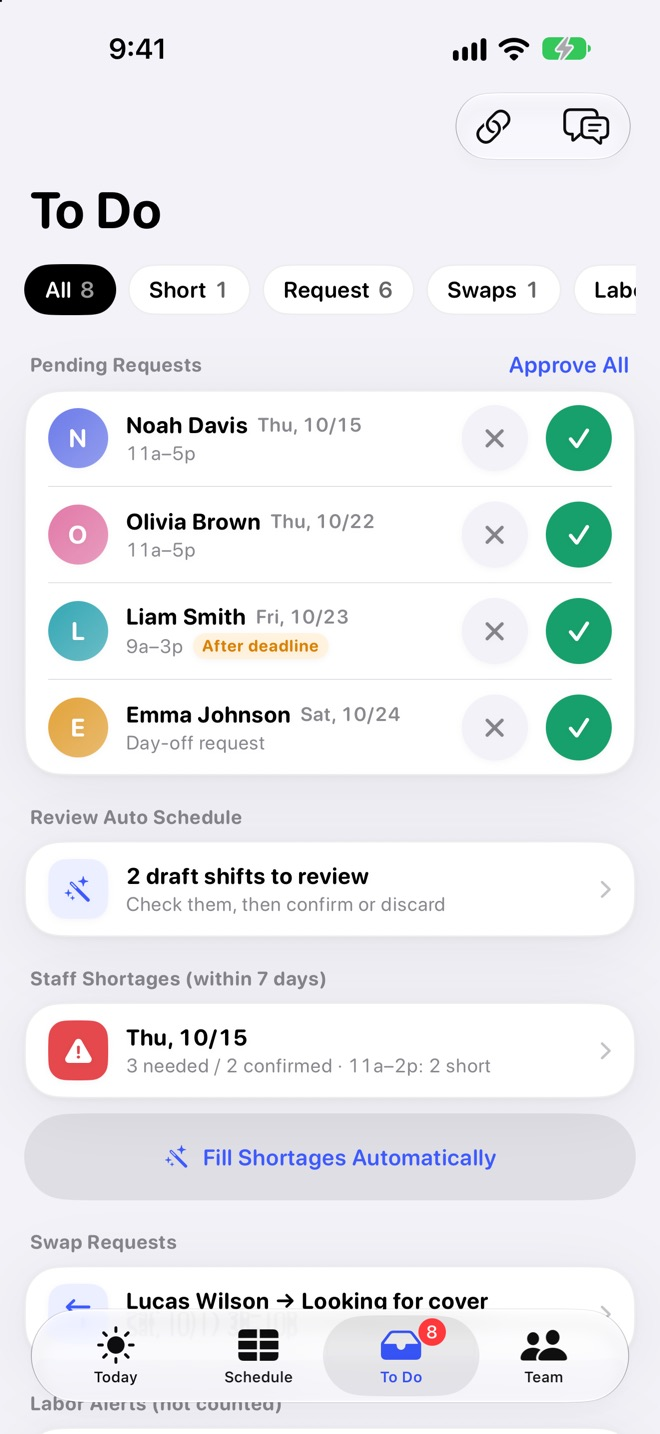
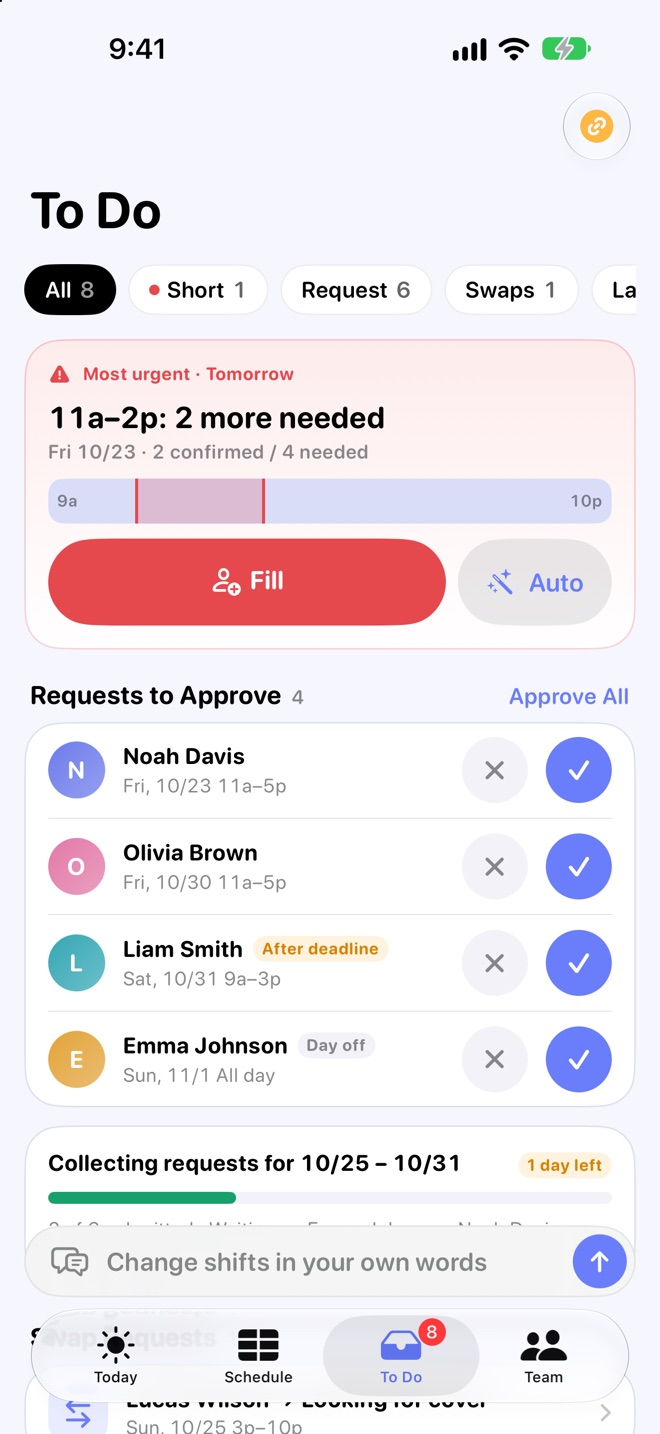
feat(shiftmate): update the landing page for 1.5.2 (Japanese and English)
New sections for call-outs and swap cover, and for staff availability and roles. Refreshed Today's Staffing, To Do, weekly swipe, role needs, Lock Screen widgets, appearance and the Link 3-step setup, with new screenshots from 1.5.2.

diff --git a/shiftmate/index.html b/shiftmate/index.html
@@ -49,7 +49,7 @@
           <p class="hero-note">iPhone・iPad（iOS 18 以上）／アカウント登録は不要です</p>
         </div>
         <div class="device">
-          <img src="images/ja/01_today.jpg" alt="「今日」の画面。明日の不足の知らせと、出勤するスタッフの時間帯、いま勤務中の人数、総労働と人件費の見込みが並ぶ" width="660" height="1434">
+          <img src="images/ja/01_today.jpg" alt="「今日」の画面。明日の不足の知らせと、今日の配置（1日の人数の流れと人ごとの勤務の帯）、いま勤務中の人、人件費の見込みが並ぶ" width="660" height="1434">
         </div>
       </div>
     </section>
@@ -87,19 +87,19 @@
             <p>「スタッフ × 曜日」の表に、テンプレートをタップしてシフトを入れます。表の埋まり方を見ながら、次の日へ続けて入力できます。</p>
             <ul>
               <li>前の週をまるごとコピー、仮のシフトを一括で確定</li>
-              <li>日・週・月の3つの表示を切り替え</li>
+              <li>日・週・月の3つの表示を切り替え。横にスライドして前後の週・日へ</li>
               <li>曜日ごとの定休日に対応</li>
             </ul>
           </div>
           <div class="feature-media">
-            <div class="device small"><img src="images/ja/02_week.jpg" alt="週のシフト表。スタッフごとの行に早番・中番・遅番が並び、人数が足りない木曜が赤く示される" width="660" height="1434" loading="lazy"></div>
+            <div class="device small"><img src="images/ja/02_week.jpg" alt="週のシフト表。スタッフごとの行に早番・中番・遅番が並び、人数が足りない金曜が赤く示される" width="660" height="1434" loading="lazy"></div>
           </div>
         </article>
 
         <article class="feature">
           <div>
             <h3>足りない時間帯まで見えて、<br>足す場所を提案</h3>
-            <p>曜日ごとの必要人数に加えて、時間帯ごとの必要人数（例: 毎日11時〜14時は3人）を設定できます。「日」の画面では、足りない時間を最も多く埋めるテンプレートを「足すならここ」で提案します。</p>
+            <p>曜日ごとの必要人数に加えて、時間帯ごとの必要人数（例: 毎日11時〜14時は3人）と役職ごとの必要人数を設定できます。「日」の画面では何が足りないかを1行ずつ並べ、足りない時間を最も多く埋めるテンプレートを「足すならここ」で提案します。</p>
             <ul>
               <li>帯を長押しして動かすだけで時間を変更</li>
               <li>誰もいない時間帯・連勤・休憩の不足・勤務の間隔の注意も表示</li>
@@ -125,13 +125,43 @@
             <h3>スタッフの希望を、締切を決めてまとめて受け付け</h3>
             <p>希望シフト・希望休・交換希望は、Shiftmate リンクのページから、またはお店の端末の「スタッフ表示」から出せます。1週間分をまとめて出せて、締切後の提出には印が付きます。</p>
             <ul>
-              <li>店長は「やること」の画面で、承認待ちの希望をその場で承認・却下</li>
-              <li>急な欠勤には「代わりを探す」。入れる人を、時間外や連勤の注意つきで並べます</li>
+              <li>店長は「やること」の画面で、いちばん急ぐ不足から順に片付け、承認待ちの希望をその場で承認・却下</li>
               <li>スタッフ表示は本人PINつき。ほかの人のシフトは操作できません</li>
             </ul>
           </div>
           <div class="feature-media">
-            <div class="device small"><img src="images/ja/05_inbox.jpg" alt="「やること」の画面。承認待ちの希望、仮シフトの確認待ち、スタッフが足りない日が並ぶ" width="660" height="1434" loading="lazy"></div>
+            <div class="device small"><img src="images/ja/05_inbox.jpg" alt="「やること」の画面。いちばん急ぐ不足のカードと「埋める」ボタン、承認待ちの希望が並ぶ" width="660" height="1434" loading="lazy"></div>
+          </div>
+        </article>
+
+        <article class="feature">
+          <div>
+            <span class="tag">新機能</span>
+            <h3>急な欠勤も交換希望も、<br>その場で代わりを決める</h3>
+            <p>来られなくなったシフトを欠勤として記録すると、入れる人を時間外や連勤の注意つきで並べ、そのまま代わりに入ってもらえます。勤務の途中で、残りの時間を別の人に任せることもできます。</p>
+            <ul>
+              <li>交換希望は、代わりに入れる人と、替えたときの影響（今週の時間・役職・人件費）を見てから担当を替えられます</li>
+              <li>重なる勤務・休み・希望休のある人は、はじめから候補に出しません（ほかのお店の勤務も含みます）</li>
+            </ul>
+          </div>
+          <div class="feature-media">
+            <div class="device small"><img src="images/ja/08_swap.jpg" alt="交換希望の画面。代わってほしい人から空いた席への矢印と、入れる3人の今週の時間と役職のカードが並ぶ" width="660" height="1434" loading="lazy"></div>
+          </div>
+        </article>
+
+        <article class="feature">
+          <div>
+            <span class="tag">新機能</span>
+            <h3>スタッフの条件を、<br>アプリが覚えておく</h3>
+            <p>「土曜は午後だけ」「キッチンはまだ研修中」を、店長が覚えておく必要はありません。スタッフごとに条件と業務を登録しておくと、シフトを入れるときに合わない点をその場で知らせます（入力は止めません）。</p>
+            <ul>
+              <li>毎週入れない曜日や時間帯、期間だけの都合、週の上限、1日の長さの目安</li>
+              <li>担当できる業務（ホール・キッチンなど）を複数持たせ、研修中の印も</li>
+              <li>開け・閉め・責任者を任せられる人がいない時間を知らせます</li>
+            </ul>
+          </div>
+          <div class="feature-media">
+            <div class="device small"><img src="images/ja/09_staff.jpg" alt="スタッフの一覧。名前と役職・時給、今月の時間、今週の時間を週の上限までの棒で示す" width="660" height="1434" loading="lazy"></div>
           </div>
         </article>
 
@@ -139,7 +169,7 @@
           <div>
             <span class="tag">プレミアム</span>
             <h3>足りない日を自動で埋める</h3>
-            <p>必要人数とスタッフの希望から、足りない日の仮シフトを作ります。週の上限時間・入れない曜日・勤務の間隔・スタッフ間の公平さを守り、確定するまでは何も決まりません。</p>
+            <p>必要人数とスタッフの希望から、足りない日の仮シフトを作ります。スタッフの条件と業務、勤務の間隔、スタッフ間の公平さを考えて割り当て、確定するまでは何も決まりません。</p>
           </div>
           <div class="feature-media">
             <div class="device small"><img src="images/ja/07_autoSchedule.jpg" alt="自動シフト作成の画面。作った仮シフトの確認待ちと、不足している日の数が出ている" width="660" height="1434" loading="lazy"></div>
@@ -175,6 +205,7 @@
               <li>期間と締切を決めて希望を集めると、スタッフはマイページから提出。届いた希望は「やること」の承認待ちに入り、通知でもお知らせします</li>
               <li>誰の希望が届いたか、まだの人は誰かを一覧で確認。まだの人へ知らせることもできます</li>
               <li>全員で見るシフト表は、QR コードにして休憩室に貼り出せます</li>
+              <li>はじめの3ステップで、ページ作り・希望の受け付け・スタッフへの送信まで順に進められます</li>
             </ul>
           </div>
           <div class="feature-media">
@@ -206,16 +237,16 @@
         <p class="section-lead">シフトを組んだあとの「今日」と「月末」も、アプリの中で済みます。</p>
         <div class="cards">
           <div class="card">
-            <h3>今日の出勤がひと目で</h3>
-            <p>出勤するスタッフと時間帯、いま勤務中の人数を表示。明日の不足もここと前日のお知らせで伝えます。</p>
+            <h3>今日の配置がひと目で</h3>
+            <p>1日の人数の流れと、いま勤務中の人を表示。人の行から連絡や時間の調整も。明日の不足もここと前日のお知らせで伝えます。</p>
           </div>
           <div class="card">
             <h3>人件費と労働時間を自動で集計</h3>
-            <p>スタッフ別の労働時間と人件費の見込み。深夜・時間外の割増も含め、給与の締め日に合わせて集計します。時給の改定は先の日付で予約できます。</p>
+            <p>スタッフ別の労働時間と人件費の見込み。深夜・時間外の割増も含め、給与の締め日に合わせて集計します。時給の改定は先の日付で予約でき、0時をまたぐ夜勤も0時の前と後に分けて計算します。</p>
           </div>
           <div class="card">
-            <h3>ホーム画面のウィジェット</h3>
-            <p>アプリを開かずに、今日の出勤を確認できます。勤務の前日にはリマインドも届けられます。</p>
+            <h3>ホーム画面・ロック画面のウィジェット</h3>
+            <p>アプリを開かずに、今日の配置や不足、やることの件数を確認できます。勤務の前日にはリマインドも届けられます。</p>
           </div>
           <div class="card">
             <h3>検索と音声で呼び出す</h3>
@@ -227,7 +258,7 @@
           </div>
           <div class="card">
             <h3>管理画面は PIN でロック</h3>
-            <p>人件費やスタッフ情報は管理者PINで守ります。生体認証での解除にも対応しています。</p>
+            <p>人件費やスタッフ情報は管理者PINで守ります。生体認証での解除にも対応。画面の外観はライト・ダークから選べます。</p>
           </div>
         </div>
       </div>
@@ -250,7 +281,8 @@
             <p class="plan-sub">在籍スタッフ3名まで</p>
             <ul>
               <li>シフトの作成（テンプレート・一括入力・コピー）</li>
-              <li>希望の提出と承認・交換希望</li>
+              <li>希望の提出と承認・交換希望・欠勤と代わり</li>
+              <li>スタッフの条件と業務</li>
               <li>必要人数と不足の表示</li>
               <li>集計の閲覧・ウィジェット・前日のリマインド</li>
             </ul>

diff --git a/shiftmate/en/index.html b/shiftmate/en/index.html
@@ -49,7 +49,7 @@
           <p class="hero-note">For iPhone and iPad (iOS 18 or later). No account needed.</p>
         </div>
         <div class="device">
-          <img src="../images/en/01_today.jpg" alt="The Today screen with a note about tomorrow's shortage, who's working and their hours, how many are on shift now, and total hours and labor cost" width="660" height="1434">
+          <img src="../images/en/01_today.jpg" alt="The Today screen with a note about tomorrow's shortage, Today's Staffing (headcount through the day and a bar for each person's shift), who's on now, and estimated labor cost" width="660" height="1434">
         </div>
       </div>
     </section>
@@ -87,19 +87,19 @@
             <p>Tap a template to add a shift to the staff-by-day grid, and keep going day by day while you watch the week fill in.</p>
             <ul>
               <li>Copy last week, and confirm draft shifts all at once</li>
-              <li>Switch between Day, Week and Month</li>
+              <li>Switch between Day, Week and Month, and swipe to the next week or day</li>
               <li>Set regular closed days by weekday</li>
             </ul>
           </div>
           <div class="feature-media">
-            <div class="device small"><img src="../images/en/02_week.jpg" alt="The weekly schedule grid with AM, Mid and PM shifts in each staff row, and a short-staffed Thursday marked in red" width="660" height="1434" loading="lazy"></div>
+            <div class="device small"><img src="../images/en/02_week.jpg" alt="The weekly schedule grid with AM, Mid and PM shifts in each staff row, and a short-staffed Friday marked in red" width="660" height="1434" loading="lazy"></div>
           </div>
         </article>
 
         <article class="feature">
           <div>
             <h3>See short-staffed hours, and where to add</h3>
-            <p>Set staffing needs by weekday and by time of day (for example, 3 people from 11a to 2p every day). In the Day view, "Add Here" suggests the shift that covers the most missing hours, and who is available to work it.</p>
+            <p>Set staffing needs by weekday, by time of day (for example, 3 people from 11a to 2p every day) and by role. The Day view lists what's missing, and "Add Here" suggests the shift that covers the most missing hours, and who is available to work it.</p>
             <ul>
               <li>Press and hold a shift bar and drag its edges to change the time</li>
               <li>Alerts for hours with no one on shift, long runs of days in a row, short breaks and short rest between shifts</li>
@@ -125,13 +125,43 @@
             <h3>Collect staff requests by a deadline</h3>
             <p>Staff send shift requests, day-off requests and swap requests from their Shiftmate Link page, or from Staff View on the shop's device. Weekly Requests let them send a whole week at once, and late requests are marked.</p>
             <ul>
-              <li>Approve or decline everything from the To Do tab</li>
-              <li>Someone called in sick? Find a Replacement lists who can cover, with overtime notes</li>
+              <li>To Do puts the most urgent shortage first, and you approve or decline requests right there</li>
               <li>Staff View has a personal PIN for each person, so no one can change someone else's shifts</li>
             </ul>
           </div>
           <div class="feature-media">
-            <div class="device small"><img src="../images/en/05_inbox.jpg" alt="The To Do tab with pending requests, draft shifts waiting for review and short-staffed days" width="660" height="1434" loading="lazy"></div>
+            <div class="device small"><img src="../images/en/05_inbox.jpg" alt="The To Do tab with the most urgent shortage and a Fill button, followed by requests to approve" width="660" height="1434" loading="lazy"></div>
+          </div>
+        </article>
+
+        <article class="feature">
+          <div>
+            <span class="tag">New</span>
+            <h3>Call-outs and swaps,<br>covered on the spot</h3>
+            <p>Mark a shift as a call-out and see who can step in, with overtime and days-in-a-row notes, then give them the shift. You can also hand off the rest of a shift partway through.</p>
+            <ul>
+              <li>For a swap, see who can take it and the effect on hours, roles and labor cost before you reassign</li>
+              <li>People with an overlapping shift, a day off or a day-off request never show up as options, including shifts at your other locations</li>
+            </ul>
+          </div>
+          <div class="feature-media">
+            <div class="device small"><img src="../images/en/08_swap.jpg" alt="The Swap Requests screen with an arrow from the person who wants cover to an empty seat, and cards for three people who can work, with this week's hours and role" width="660" height="1434" loading="lazy"></div>
+          </div>
+        </article>
+
+        <article class="feature">
+          <div>
+            <span class="tag">New</span>
+            <h3>The app remembers<br>each person's limits</h3>
+            <p>"Only Saturday afternoons." "Still training in the kitchen." You don't have to keep it all in your head. Save each person's availability and roles, and the app flags mismatches as you schedule (nothing is blocked).</p>
+            <ul>
+              <li>Days and times they can't work, temporary conflicts, weekly limits and preferred shift length</li>
+              <li>Several roles per person (front, kitchen), with a trainee mark</li>
+              <li>Alerts when no one can open, close or lead</li>
+            </ul>
+          </div>
+          <div class="feature-media">
+            <div class="device small"><img src="../images/en/09_staff.jpg" alt="The staff list with each person's role and wage, hours this month, and a bar showing this week's hours against their weekly limit" width="660" height="1434" loading="lazy"></div>
           </div>
         </article>
 
@@ -139,7 +169,7 @@
           <div>
             <span class="tag">Premium</span>
             <h3>Fill gaps automatically</h3>
-            <p>Creates draft shifts for short days from your staffing needs and staff requests. It respects weekly hour limits, days each person can't work, rest between shifts and fairness across the team. Nothing is final until you review and confirm.</p>
+            <p>Creates draft shifts for short days from your staffing needs and staff requests. It respects each person's availability and roles, rest between shifts and fairness across the team. Nothing is final until you review and confirm.</p>
           </div>
           <div class="feature-media">
             <div class="device small"><img src="../images/en/07_autoSchedule.jpg" alt="The automatic scheduling screen with drafts waiting for review and the number of short days" width="660" height="1434" loading="lazy"></div>
@@ -175,6 +205,7 @@
               <li>Open requests for a period with a deadline. Staff send them from their page, and they land in To Do for approval, with a notification</li>
               <li>See who has sent requests and who hasn't, and remind the rest</li>
               <li>Turn the shared schedule into a QR code to post in the back room</li>
+              <li>Getting Started in 3 Steps walks you through creating pages, opening requests and sending links</li>
             </ul>
           </div>
           <div class="feature-media">
@@ -206,16 +237,16 @@
         <p class="section-lead">Once the schedule is set, today's crew and the pay period's totals live in the app as well.</p>
         <div class="cards">
           <div class="card">
-            <h3>Today at a glance</h3>
-            <p>Who's working, when, and today's labor cost. Tomorrow's shortages show up here and in the day-before reminder.</p>
+            <h3>Today's Staffing at a glance</h3>
+            <p>Headcount through the day and who's on now. Call, message or adjust someone right from their row. Tomorrow's shortages show up here and in the day-before reminder.</p>
           </div>
           <div class="card">
             <h3>Labor cost and hours</h3>
-            <p>Hours and estimated labor cost per person, with U.S. federal (FLSA) overtime or a custom rule, totaled by your pay period. Book a raise ahead of time.</p>
+            <p>Hours and estimated labor cost per person, with U.S. federal (FLSA) overtime or a custom rule, totaled by your pay period. Book a raise ahead of time; overnight shifts split the rate at midnight.</p>
           </div>
           <div class="card">
-            <h3>Home Screen widget</h3>
-            <p>See today's crew without opening the app, and get an optional reminder the day before each workday.</p>
+            <h3>Home Screen and Lock Screen widgets</h3>
+            <p>See today's staffing, shortages and to-dos without opening the app, and get an optional reminder the day before each workday.</p>
           </div>
           <div class="card">
             <h3>Search and voice</h3>
@@ -227,7 +258,7 @@
           </div>
           <div class="card">
             <h3>Admin PIN lock</h3>
-            <p>Labor costs and staff details stay behind an admin PIN, with biometric unlock supported.</p>
+            <p>Labor costs and staff details stay behind an admin PIN, with biometric unlock supported. Choose a light or dark appearance.</p>
           </div>
         </div>
         <p class="hero-note" style="text-align: center;">Pay figures are estimates of gross pay. Taxes and deductions are not included.</p>
@@ -251,7 +282,8 @@
             <p class="plan-sub">Up to 3 active staff</p>
             <ul>
               <li>Build schedules with templates, bulk entry and copying</li>
-              <li>Staff requests, approvals and swaps</li>
+              <li>Staff requests, approvals, swaps, call-outs and cover</li>
+              <li>Staff availability and roles</li>
               <li>Staffing needs and shortages</li>
               <li>Totals, widget and day-before reminders</li>
             </ul>
